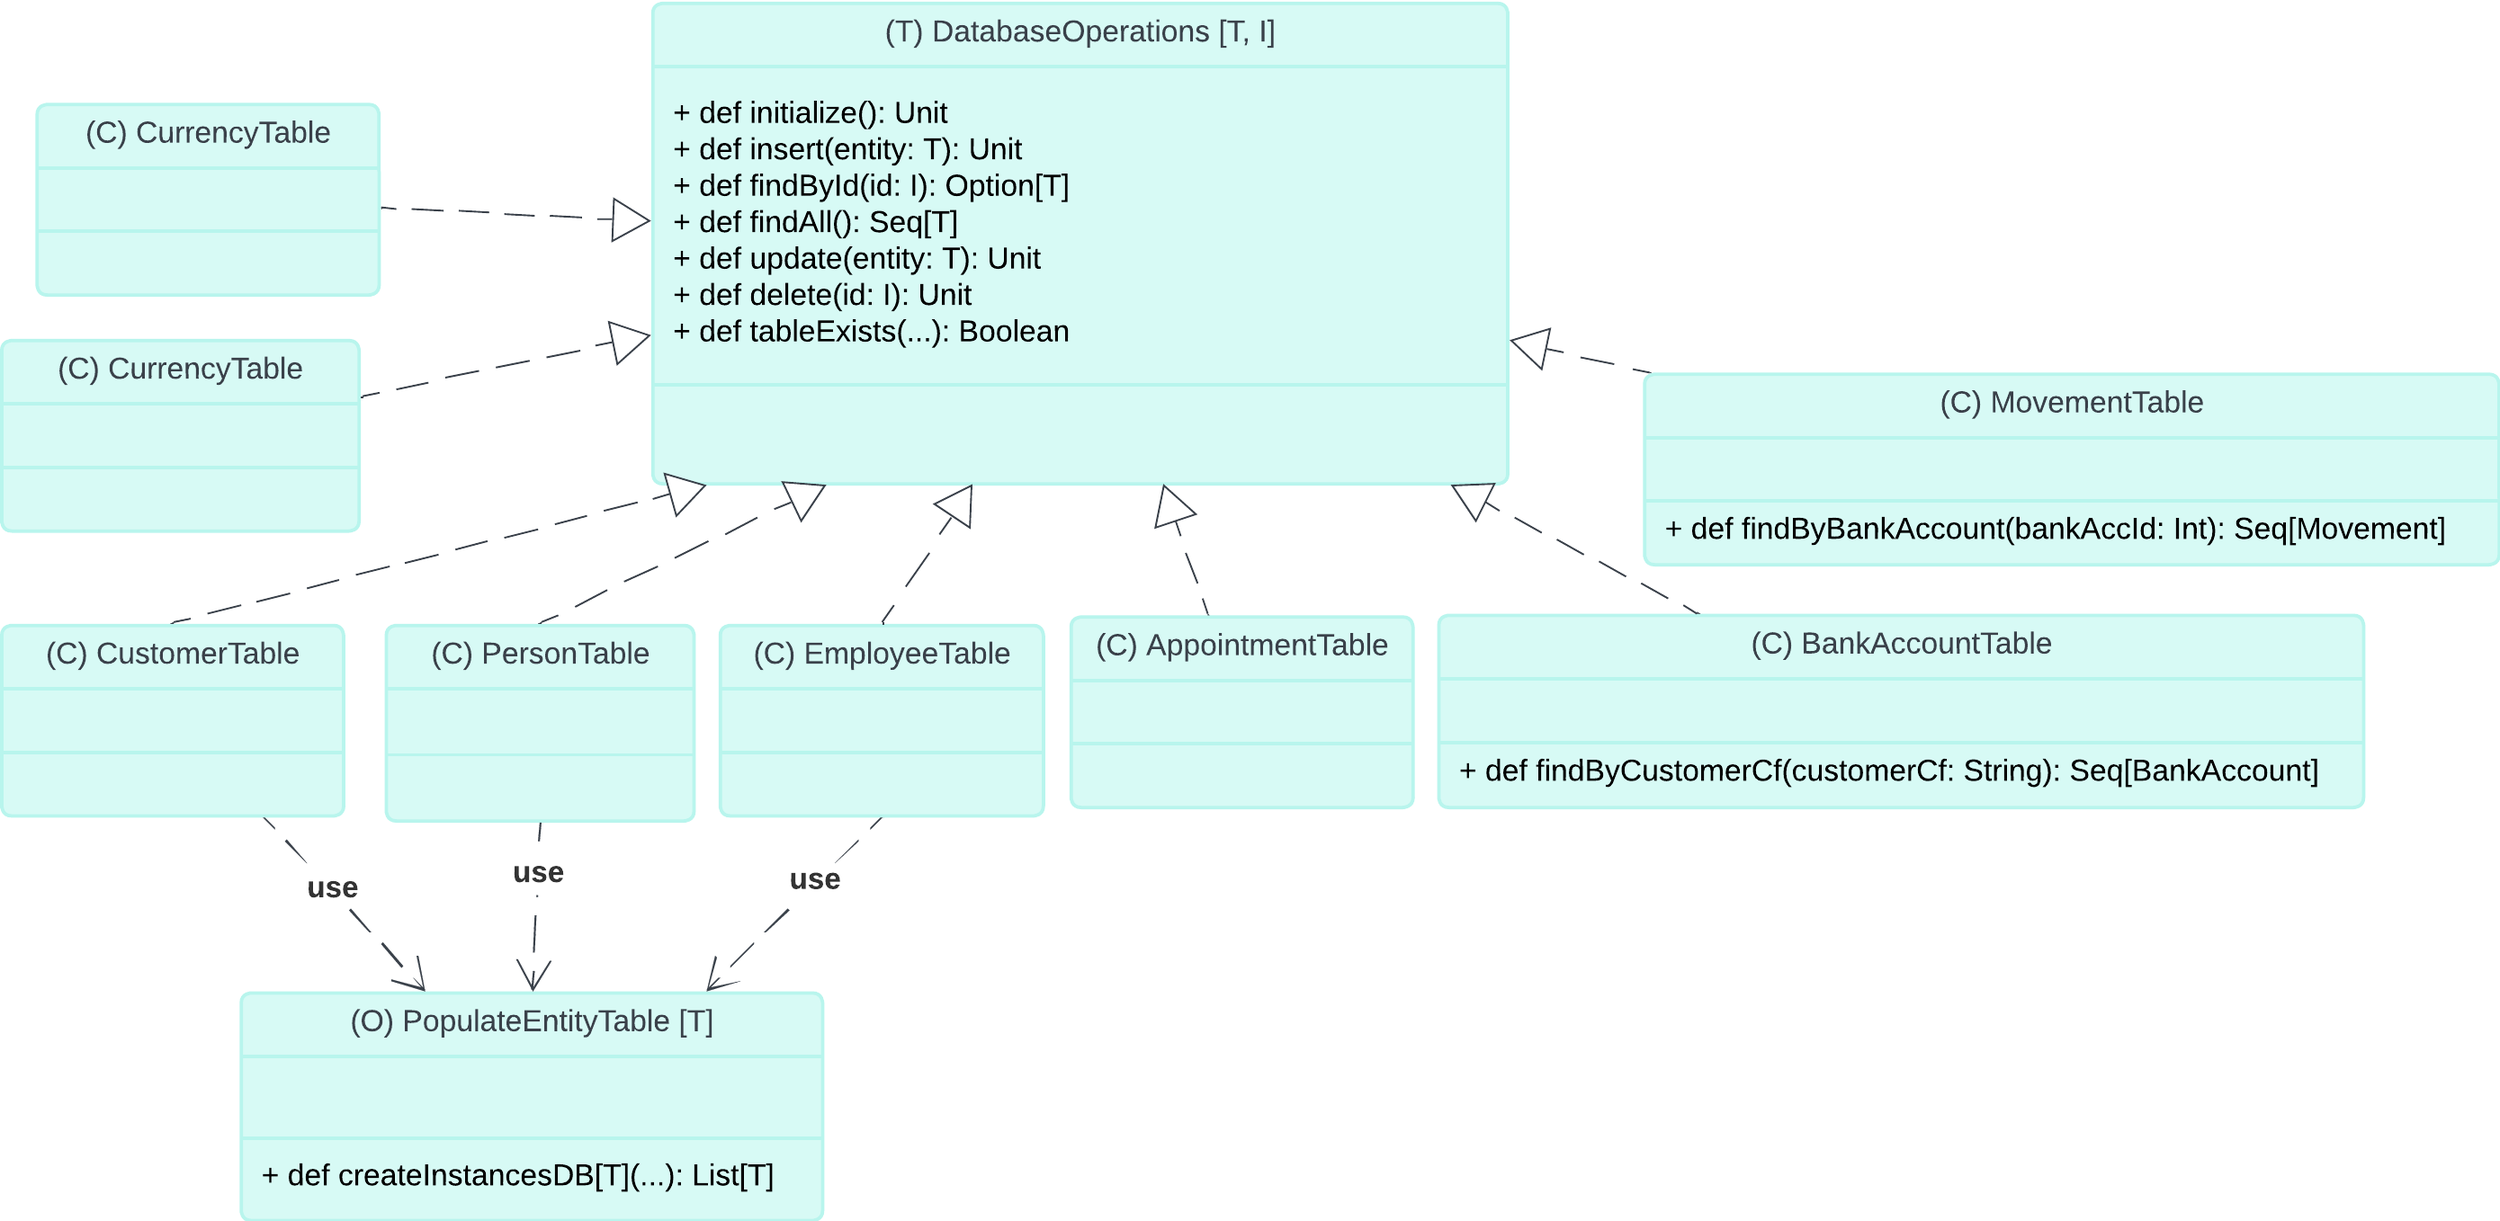
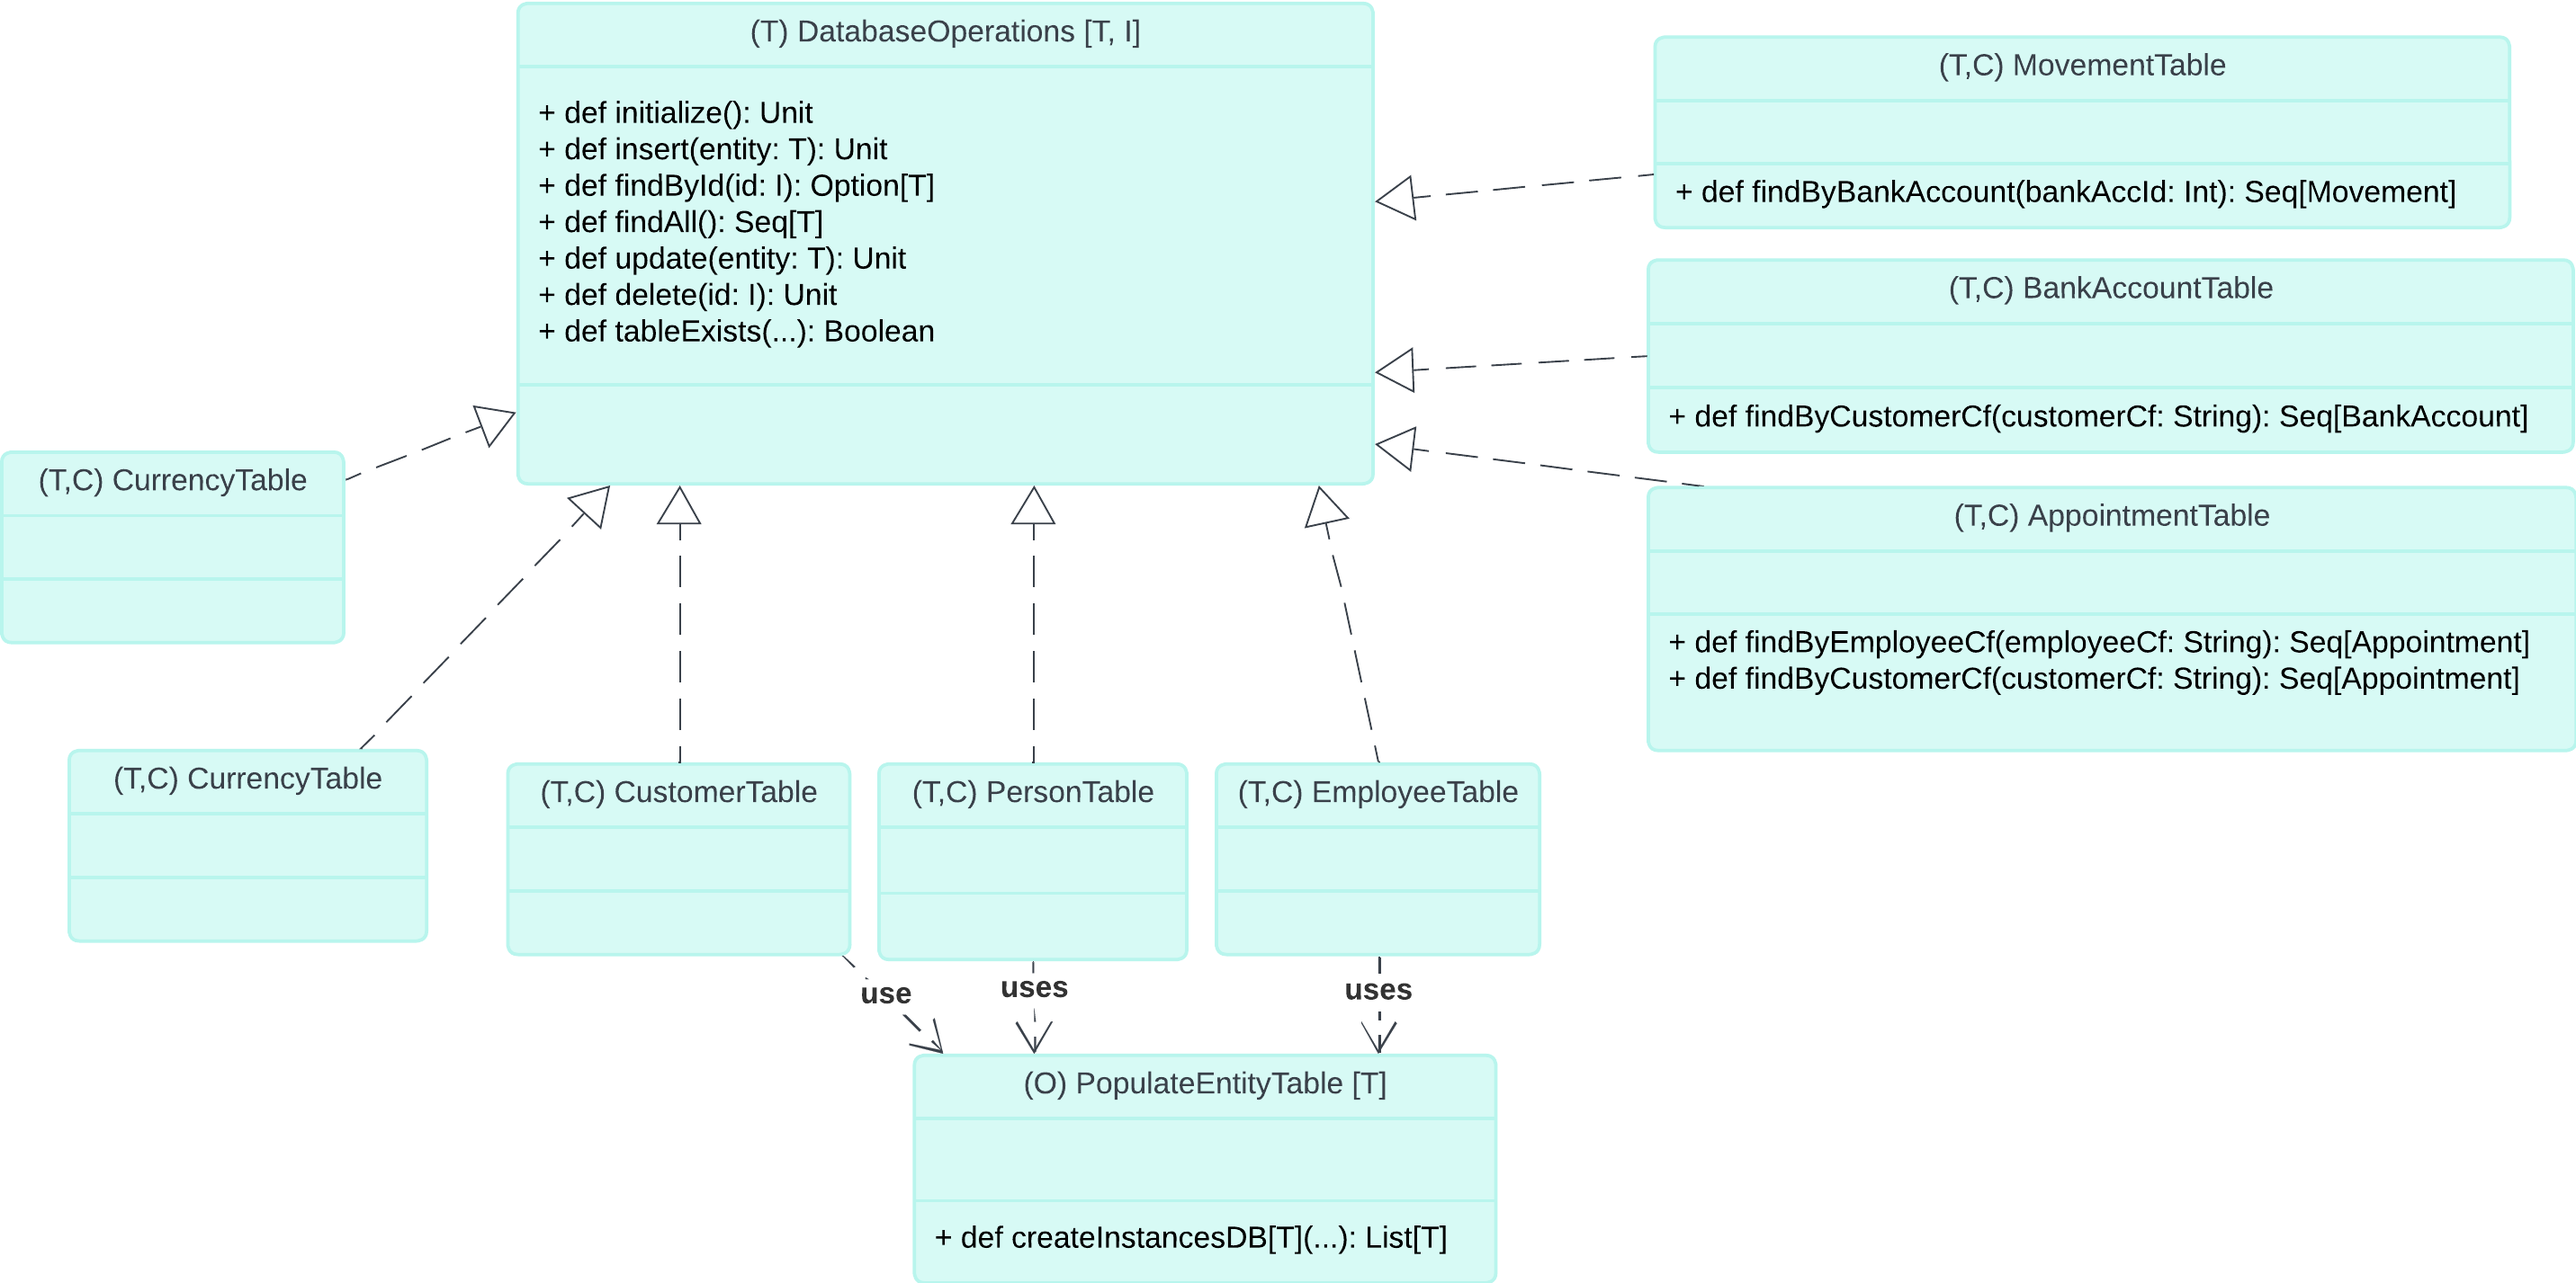
Update report

diff --git a/docs/6-implementation/andrea/andrea.md b/docs/6-implementation/andrea/andrea.md
@@ -11,7 +11,7 @@ Riporto lo schema UML per la factory della persona.
 
 ![UML Persona](img/person.png)
 
-Invece è stato utilizzato un template method per quanto concerne la gestione delle diverse tipologie di dipendenti. In particolare è stata creata prima l'interfaccia `StaffPosition` la quale è un mixin, il quale contiene implementati i metodi comuni ed estende Person. A questo punto le classi `Employee` e `Manager` estendono `StaffPosition`.
+Invece è stato utilizzato un template method per quanto concerne la gestione delle diverse tipologie di dipendenti. In particolare è stata creata prima l'interfaccia `StaffPosition`, il quale contiene implementati i metodi comuni ed estende Person. A questo punto le classi `Employee` e `Manager` estendono `StaffPosition`.
 Riporto lo schema UML per il template method della gestione dei dipendenti. Si noti che (T) è un trait, (E) è un'enumerazione, (C) è una classe, (T, C) vuol dire che è stato creato il trait e la classe relativa utilizzando il pattern factory come descritto sopra per la classe `Persona`.
 
 ![UML Dipendenti](img/template.png)
@@ -29,7 +29,7 @@ Il trait `Person` rappresenta una persona con informazioni di base e relativi co
 ### StaffMember
 
 Il trait `StaffMember` e `AppointmentBehaviour` rappresentano un membro dello staff con dettagli sulla posizione e metodi per calcolare i salari e gestire gli appuntamenti.
-`StaffMember` essendo un mixin esso fornisce funzionalità comuni a tutti i membri dello staff. È un'implementazione generica che utilizza un parametro di tipo `T` che estende `StaffPosition`. 
+`StaffMember` fornisce funzionalità comuni a tutti i membri dello staff. È un'implementazione generica che utilizza un parametro di tipo `T` che estende `StaffPosition`. 
 Questa classe eredita da `Person`.
 
 ```scala 3
@@ -62,7 +62,6 @@ trait StaffMember[T <: StaffPosition] extends Person with AppointmentBehaviour:
 
 - **Generics:** Utilizzo di generics al fine di poter generalizzare la posizione lavorativa di uno `StaffMember`, la quale si differenzia a seconda della tipologia di impiegato.
 - **Bounded type parameter** Utilizzo di bounded type parameter `[T <: StaffPosition]`. Più specificamente un upper bound, in cui T è un parametro di tipo che può essere sostituito con qualsiasi tipo che sia un sottotipo di StaffPosition. In questo modo limito i tipi di position.
-- **Mixin** Il trait avendo sia metodi implementati che non è un mixin.
 - **Currying** Per il passaggio di valori in `updateAppointment`.
 - **List** Per la lista è stato deciso di usare una lista immutabile, usando una var.
 
@@ -309,52 +308,65 @@ trait DatabaseOperations[T, I]:
       finally
         resultSet.close()
 ```
+Tutte le tabelle sono dei Companion Object.
 
-#### Classe `PersonTable`
+#### `PersonTable`
 
 - Crea e popola la tabella `person` se non esiste.
 - Implementa le operazioni CRUD per la tabella `person`.
 
-#### Classe `EmployeeTable`
+#### `EmployeeTable`
 
 - Crea e popola la tabella `employee` se non esiste.
 - Implementa le operazioni CRUD per la tabella `employee`.
 
-#### Classe `CustomerTable`
+#### `CustomerTable`
 
 - Crea e popola la tabella `customer` se non esiste.
 - Implementa le operazioni CRUD per la tabella `customer`.
 
-#### Classe `BankAccountTable`
+#### `BankAccountTable`
 
 - Crea e popola la tabella `bankAccount` se non esiste.
 - Implementa le operazioni CRUD per la tabella `bankAccount`.
 
-#### Classe `AppointmentTable`
+#### `AppointmentTable`
 
 - Crea e popola la tabella `appointment` se non esiste.
 - Implementa le operazioni CRUD per la tabella `appointment`.
 - Fornisce metodi per trovare appuntamenti per codice fiscale di cliente o dipendente.
 
-#### Classe `BankAccountTypeTable`
+#### `BankAccountTypeTable`
 
 - Crea e popola la tabella `bankAccountTypeTable` se non esiste.
 - Implementa le operazioni CRUD per la tabella `bankAccountTypeTable`.
 
-#### Classe `MovementTable`
+#### `MovementTable`
 
 - Crea e popola la tabella `movement` se non esiste.
 - Implementa le operazioni CRUD per la tabella `appointment`.
 - Fornisce metodi per trovare i movimenti di un sender o di un receiver.
 
-#### Classe `CurrencyTable`
+#### `CurrencyTable`
 
 - Crea e popola la tabella `cureencyTable` se non esiste.
 - Implementa le operazioni CRUD per la tabella `currencyTable`.
 
-# Popolamento delle Tabelle
+#### Popolamento delle Tabelle
 
 - **Random Data Generation:** La classe `PopulateEntityTable` crea istanze casuali per popolare le tabelle inizialmente, migliorando il testing e la simulazione di scenari realistici.
+
+#### Cache
+In aggiunta è stato inserito anche un meccanismo di caching, per non richiedere sempre le istanze al DB.
+
+```scala 3
+trait HasCache:
+  def clearCache(): Unit
+
+abstract class AbstractCache[T, I] extends HasCache:
+  protected val cache: MutableMap[I, T] = MutableMap()
+  override def clearCache(): Unit = cache.clear()
+```
 
 ## Parte 4
 
@@ -407,7 +419,7 @@ def filterMovements[T <: Movement : ClassTag]: SeqView[T] =
 - **Tipo Generico:** `T` è un tipo generico che deve essere un sottotipo di `Movement`.
 - **ClassTag:** Utilizza `ClassTag` per permettere il filtraggio in fase di esecuzione.
 - **collect:** Il metodo `collect` filtra e mappa gli elementi della lista _`movements` che corrispondono al tipo specificato.
-- **view:** Restituisce una vista dei movimenti filtrati per evitare la creazione di una nuova lista e migliorare l'efficienza.
+- **view:** Restituisce una vista dei movimenti filtrati per evitare la creazione di una nuova lista e migliorare l'efficienza. La view si può considerare come in wrapper dinamico e immutabile.
 
 
 Per tutte le seguenti implementazioni si è deciso di utilizzare un approccio TDD.
